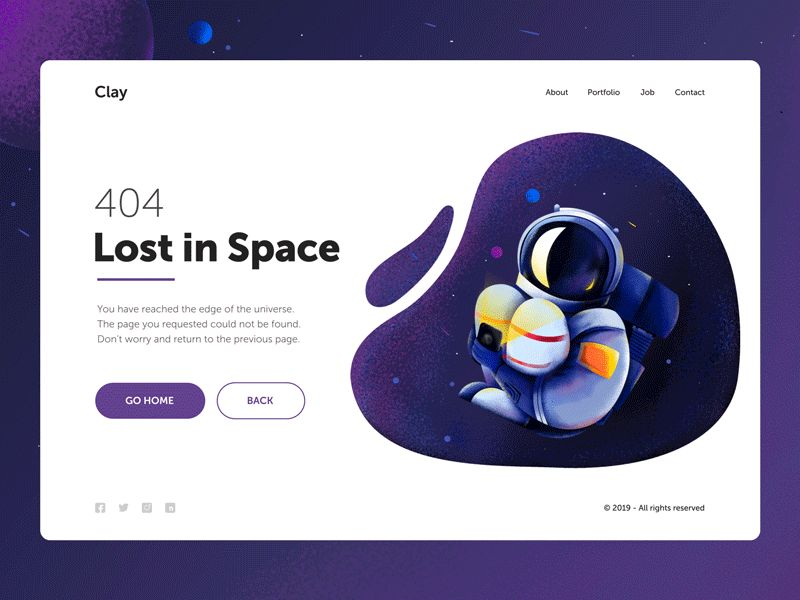
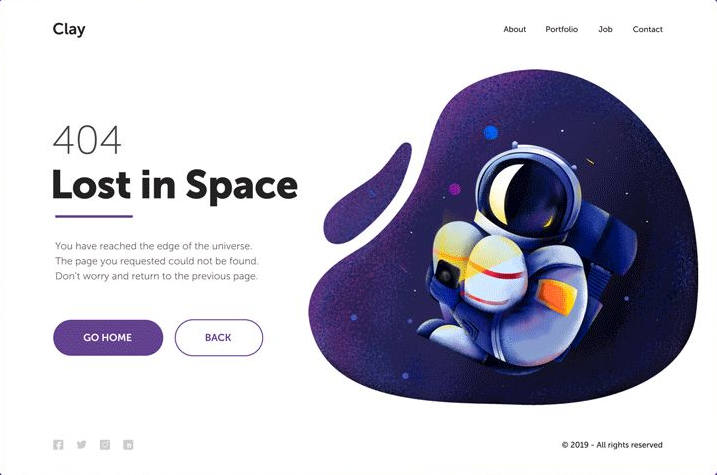
Mayor 2

diff --git a/css/main.css b/css/main.css
@@ -1,17 +1,107 @@
+body {
+    display: inline-block;
+    margin: 0;
+    font-family: 'Gill Sans', 'Gill Sans MT', Calibri, 'Trebuchet MS', sans-serif;
+}
+
 header {
+    float: left;
     width: 800px;
     margin-left: calc(50% - 400px);
+    margin-top: 30px;
     background-color: hotpink;
 }
 
+header > img {
+    float: left;
+}
+
+nav {
+    float: right;
+    background-color: yellow;
+}
+
+nav > a {
+    color: #333;
+    text-decoration: none;
+    margin-left: 30px;
+}
+
+nav > a:first-child {
+    margin: 0;
+}
+
 main {
+   float: left;
     width: 800px;
     margin-left: calc(50% - 400px);
+    margin-top: 60;
+    margin-bottom: 60px;
     background-color: aquamarine;
 }
 
+main > div {
+    width: 40%;
+    float: left;
+    margin-top: 30px;
+}
+
+h1 {
+    margin: 0;
+    font-size: 50px;
+    font-weight: normal;
+}
+
+div > p:first-of-type {
+    font-size: 50px;
+    font-weight: bold;
+}
+
+div > p:last-of-type {
+    font-size: 20px;
+}
+
+main > div > div {
+    display: inline-block;
+}
+
+main a {
+    float: left;
+    background-color: #554485;
+    color: #fff;
+    padding: 16px;
+    padding-left: 30px;
+    font-size: 16px;
+    line-height: 20;
+    text-transform: uppercase;
+    font-weight: bold;
+    text-decoration: none;
+    border-radius: 30px;
+    border: 4px solid #554485;
+}
+
+main a:last-child {
+    background-color: #fff;
+    color: #554485;
+    margin-left: 20px;
+}
+
+main > img {
+    width: 60%;
+    float: right;
+}
+
 footer {
+    float: left;
     width: 800px;
     margin-left: calc(50% - 400px);
     background-color: lightgrey;
+}
+
+footer > div {
+    float: left;
+}
+footer > p {
+    float: right;
+    margin: 0;
 }

diff --git a/index.html b/index.html
@@ -10,17 +10,17 @@
 
 <body>
     <header>
-        <img style="margin-top: 3%; margin-left: 7%; background-color: aqua;" src="img/Logo.webp" alt="Logo">
-        <nav style="margin-right: 7%;">
-            <a style="background-color: azure;" href="#">About</a>
-            <a style="background-color: azure;" href="#">Portfolio</a>
-            <a style="background-color: azure;" href="#">Job</a>
-            <a style="background-color: azure;" href="#">Contact</a>
+        <img src="./img/LogoUpdate.webp" alt="Logo">
+        <nav>
+            <a href="#">About</a>
+            <a href="#">Portfolio</a>
+            <a href="#">Job</a>
+            <a href="#">Contact</a>
         </nav>
     </header>
 
     <main>
-        <div style="width: 41%;">
+        <div>
             <h1>404</h1>
             <p>Lost in space</p>
             <p>Lorem ipsum dolor sit amet consectetur adipisicing elit. Rerum veritatis, hic tempore quaerat molestias id, ut blanditiis totam eum iste, beatae minima mollitia quam debitis!</p>
@@ -29,7 +29,7 @@
                 <a href="#">Back</a>           
             </div>
         </div>
-        <img style="width: 58%; float: right; margin-bottom: 50px;" src="img/Astronautas-burbule.webp" alt="Astronautas su mobiliaku rankoje">
+        <img src="img/Astronautas-burbule.webp" alt="Astronautas su mobiliaku rankoje">
     </main>
     
     <footer>
